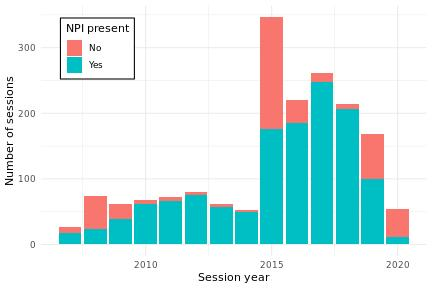
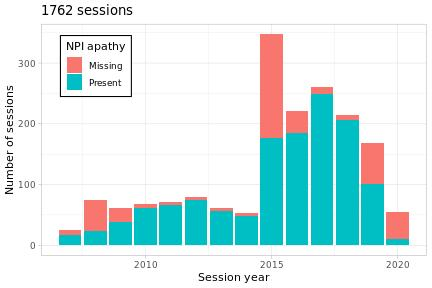
Add plots on presence of UPDRS apathy measures
Simple extensions of existing NPI breakdown.

diff --git a/DataOverview.md b/DataOverview.md
@@ -105,13 +105,19 @@ recruitment date.
 
 ---------
 
-### Consistency of NPI administration
+### Consistency of collection of apathy measures
 
-The figure below shows a large number of missing sessions in 2015. This was due
-to different data collection procedures at the start of the PET study, and as
-these were mostly new participants this is also responsible for the large spike
-in missing NPI assessments in baseline sessions (discussed with Kyla Horne,
-28/10/2020).
+The figure below shows several effects:
+
+ + There a large number of missing sessions in 2015. This was due to different
+   data collection procedures at the start of the PET study, and as these were
+   mostly new participants this is also responsible for the large spike in
+   missing assessments in baseline sessions (discussed with Kyla Horne,
+   28/10/2020).
+
+ + The missing UPDRS data from 2010 and before relates to the change in
+   protocol: the updated MDS-UPDRS contains questions specific to apathy, but
+   the 1987 version in use originally does not.
 
 --------
 
@@ -122,7 +128,14 @@ in missing NPI assessments in baseline sessions (discussed with Kyla Horne,
 <img src="Figures/npi-presence_v_session.jpg" width="45%">
 </a>
 
-**Figure**: Breakdown of the sessions with a complete NPI assessment by both
+<a href="Figures/updrs-presence_v_year.pdf">
+<img src="Figures/updrs-presence_v_year.jpg" width="45%">
+</a>
+<a href="Figures/updrs-presence_v_session.pdf">
+<img src="Figures/updrs-presence_v_session.jpg" width="45%">
+</a>
+
+**Figure**: Breakdown of the sessions with available apathy measures by both
 year and the session number.
 
 ---------
